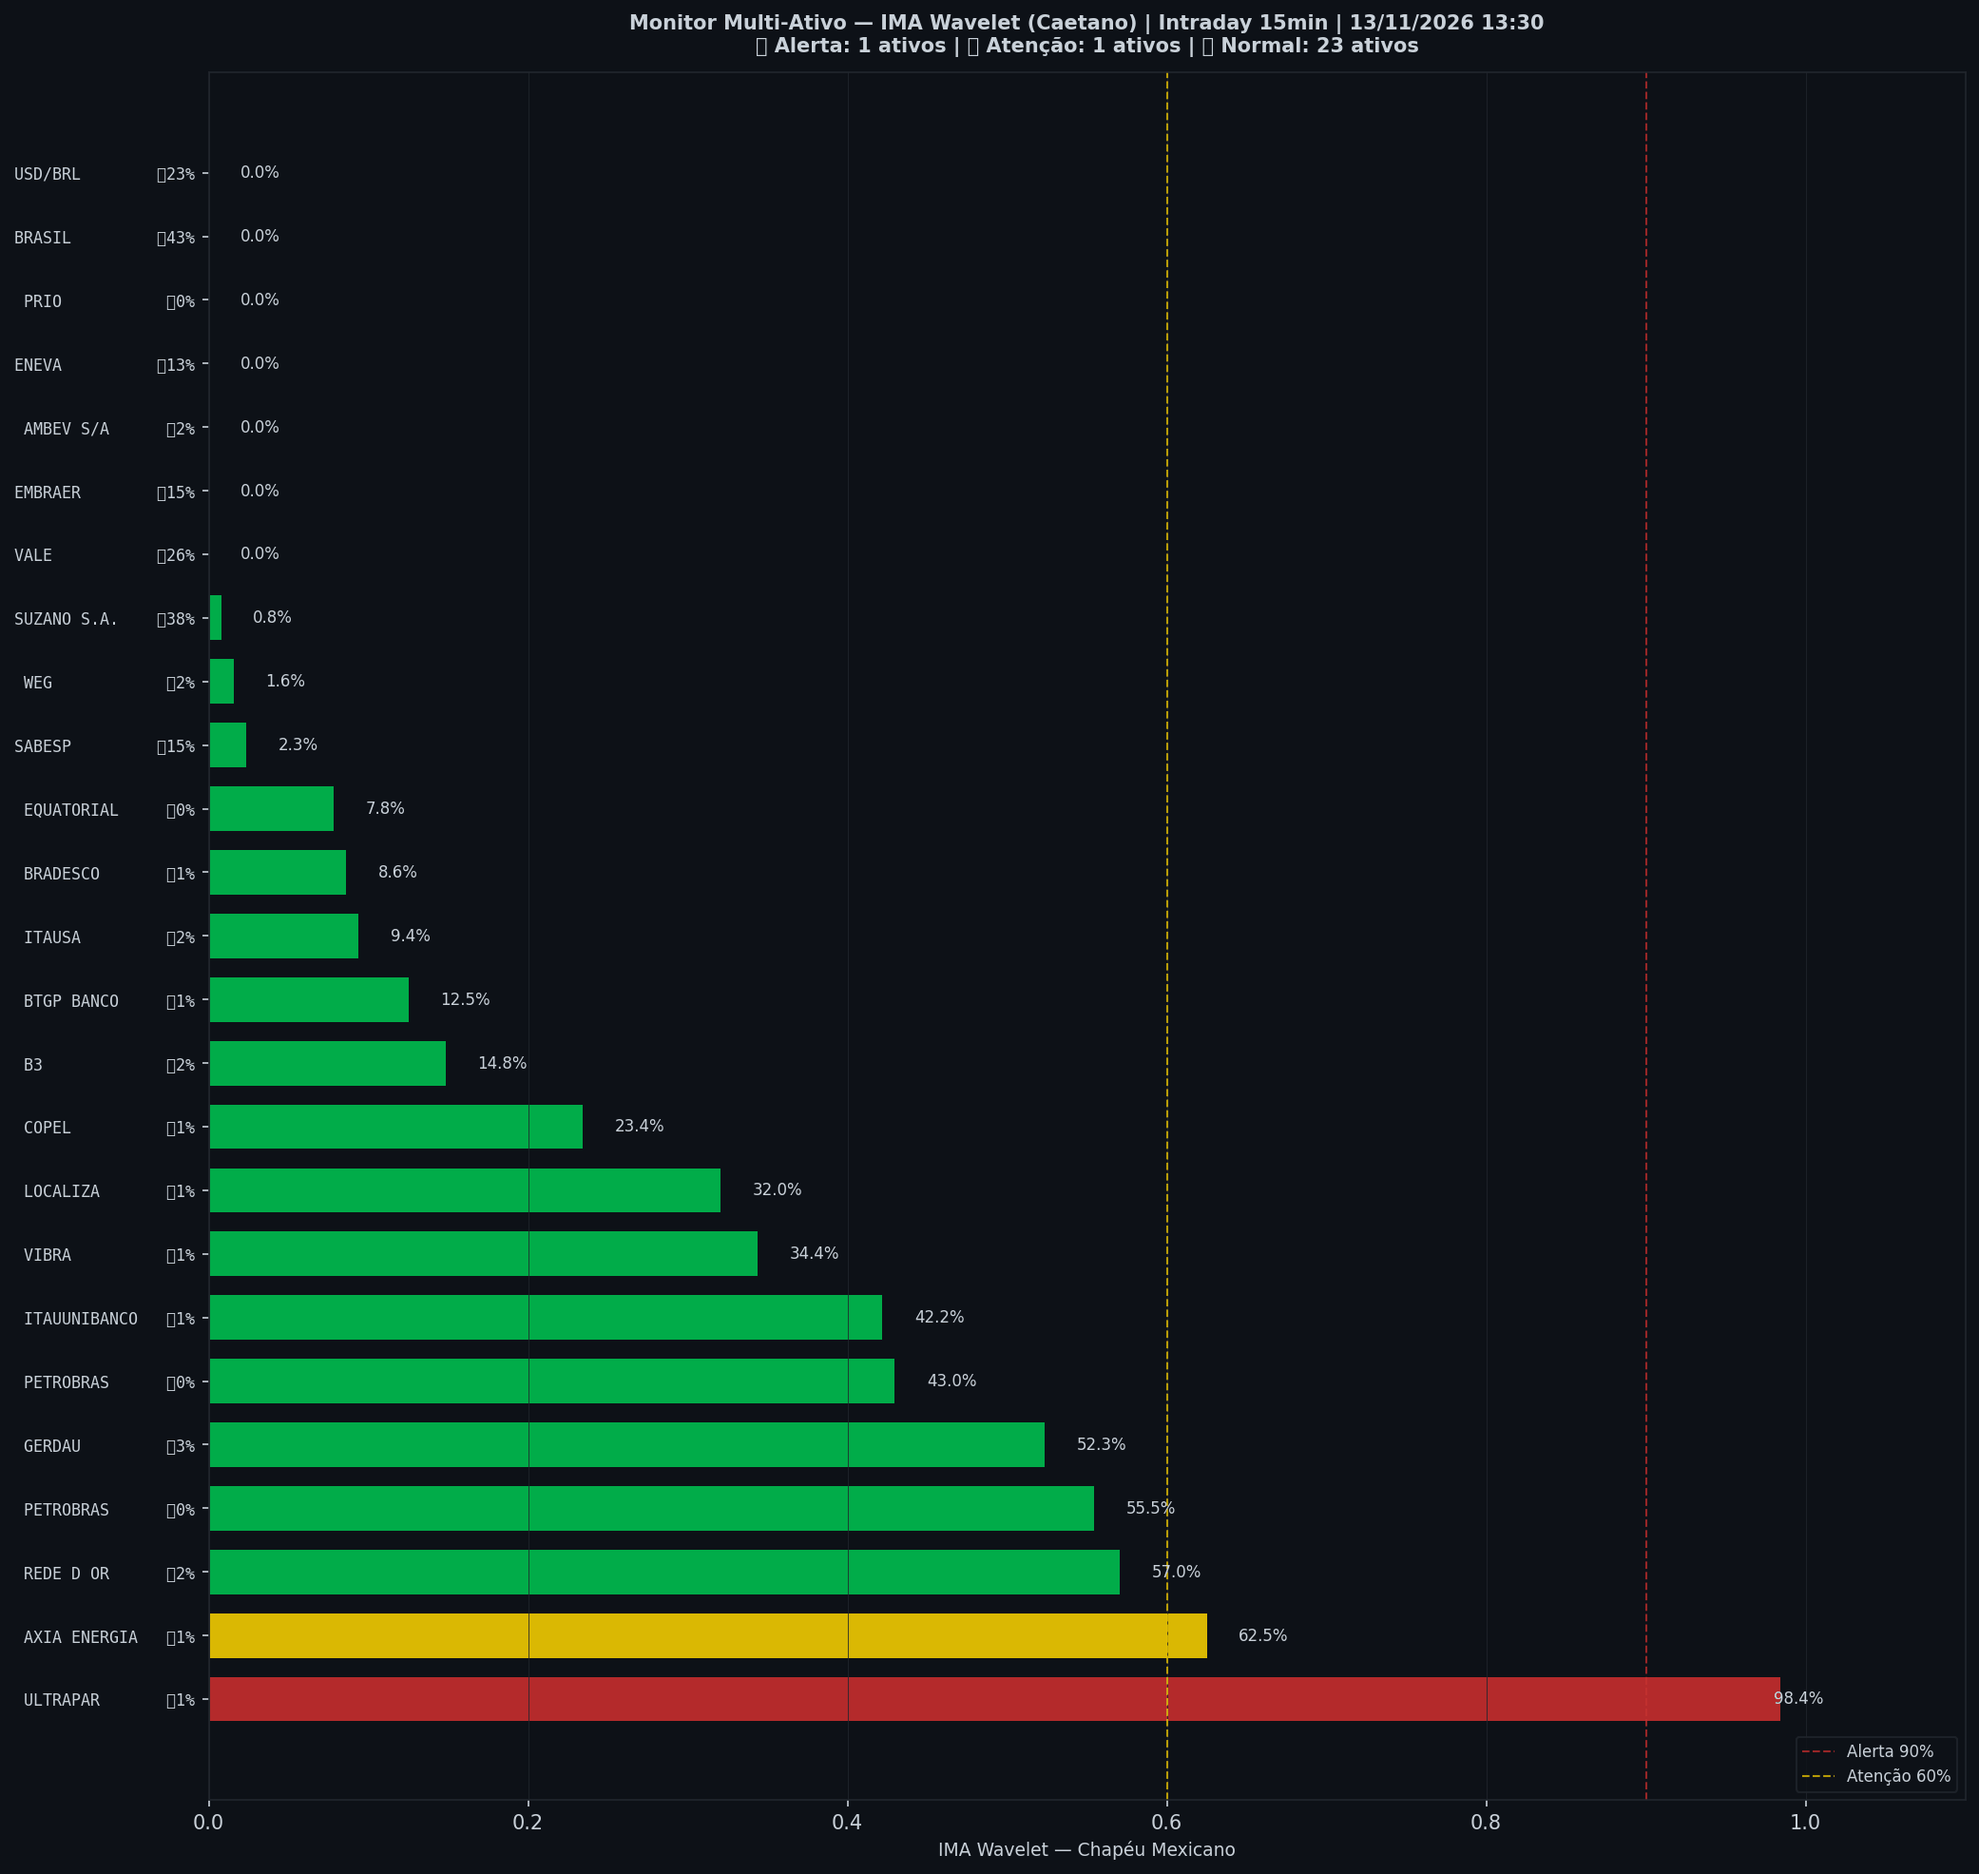
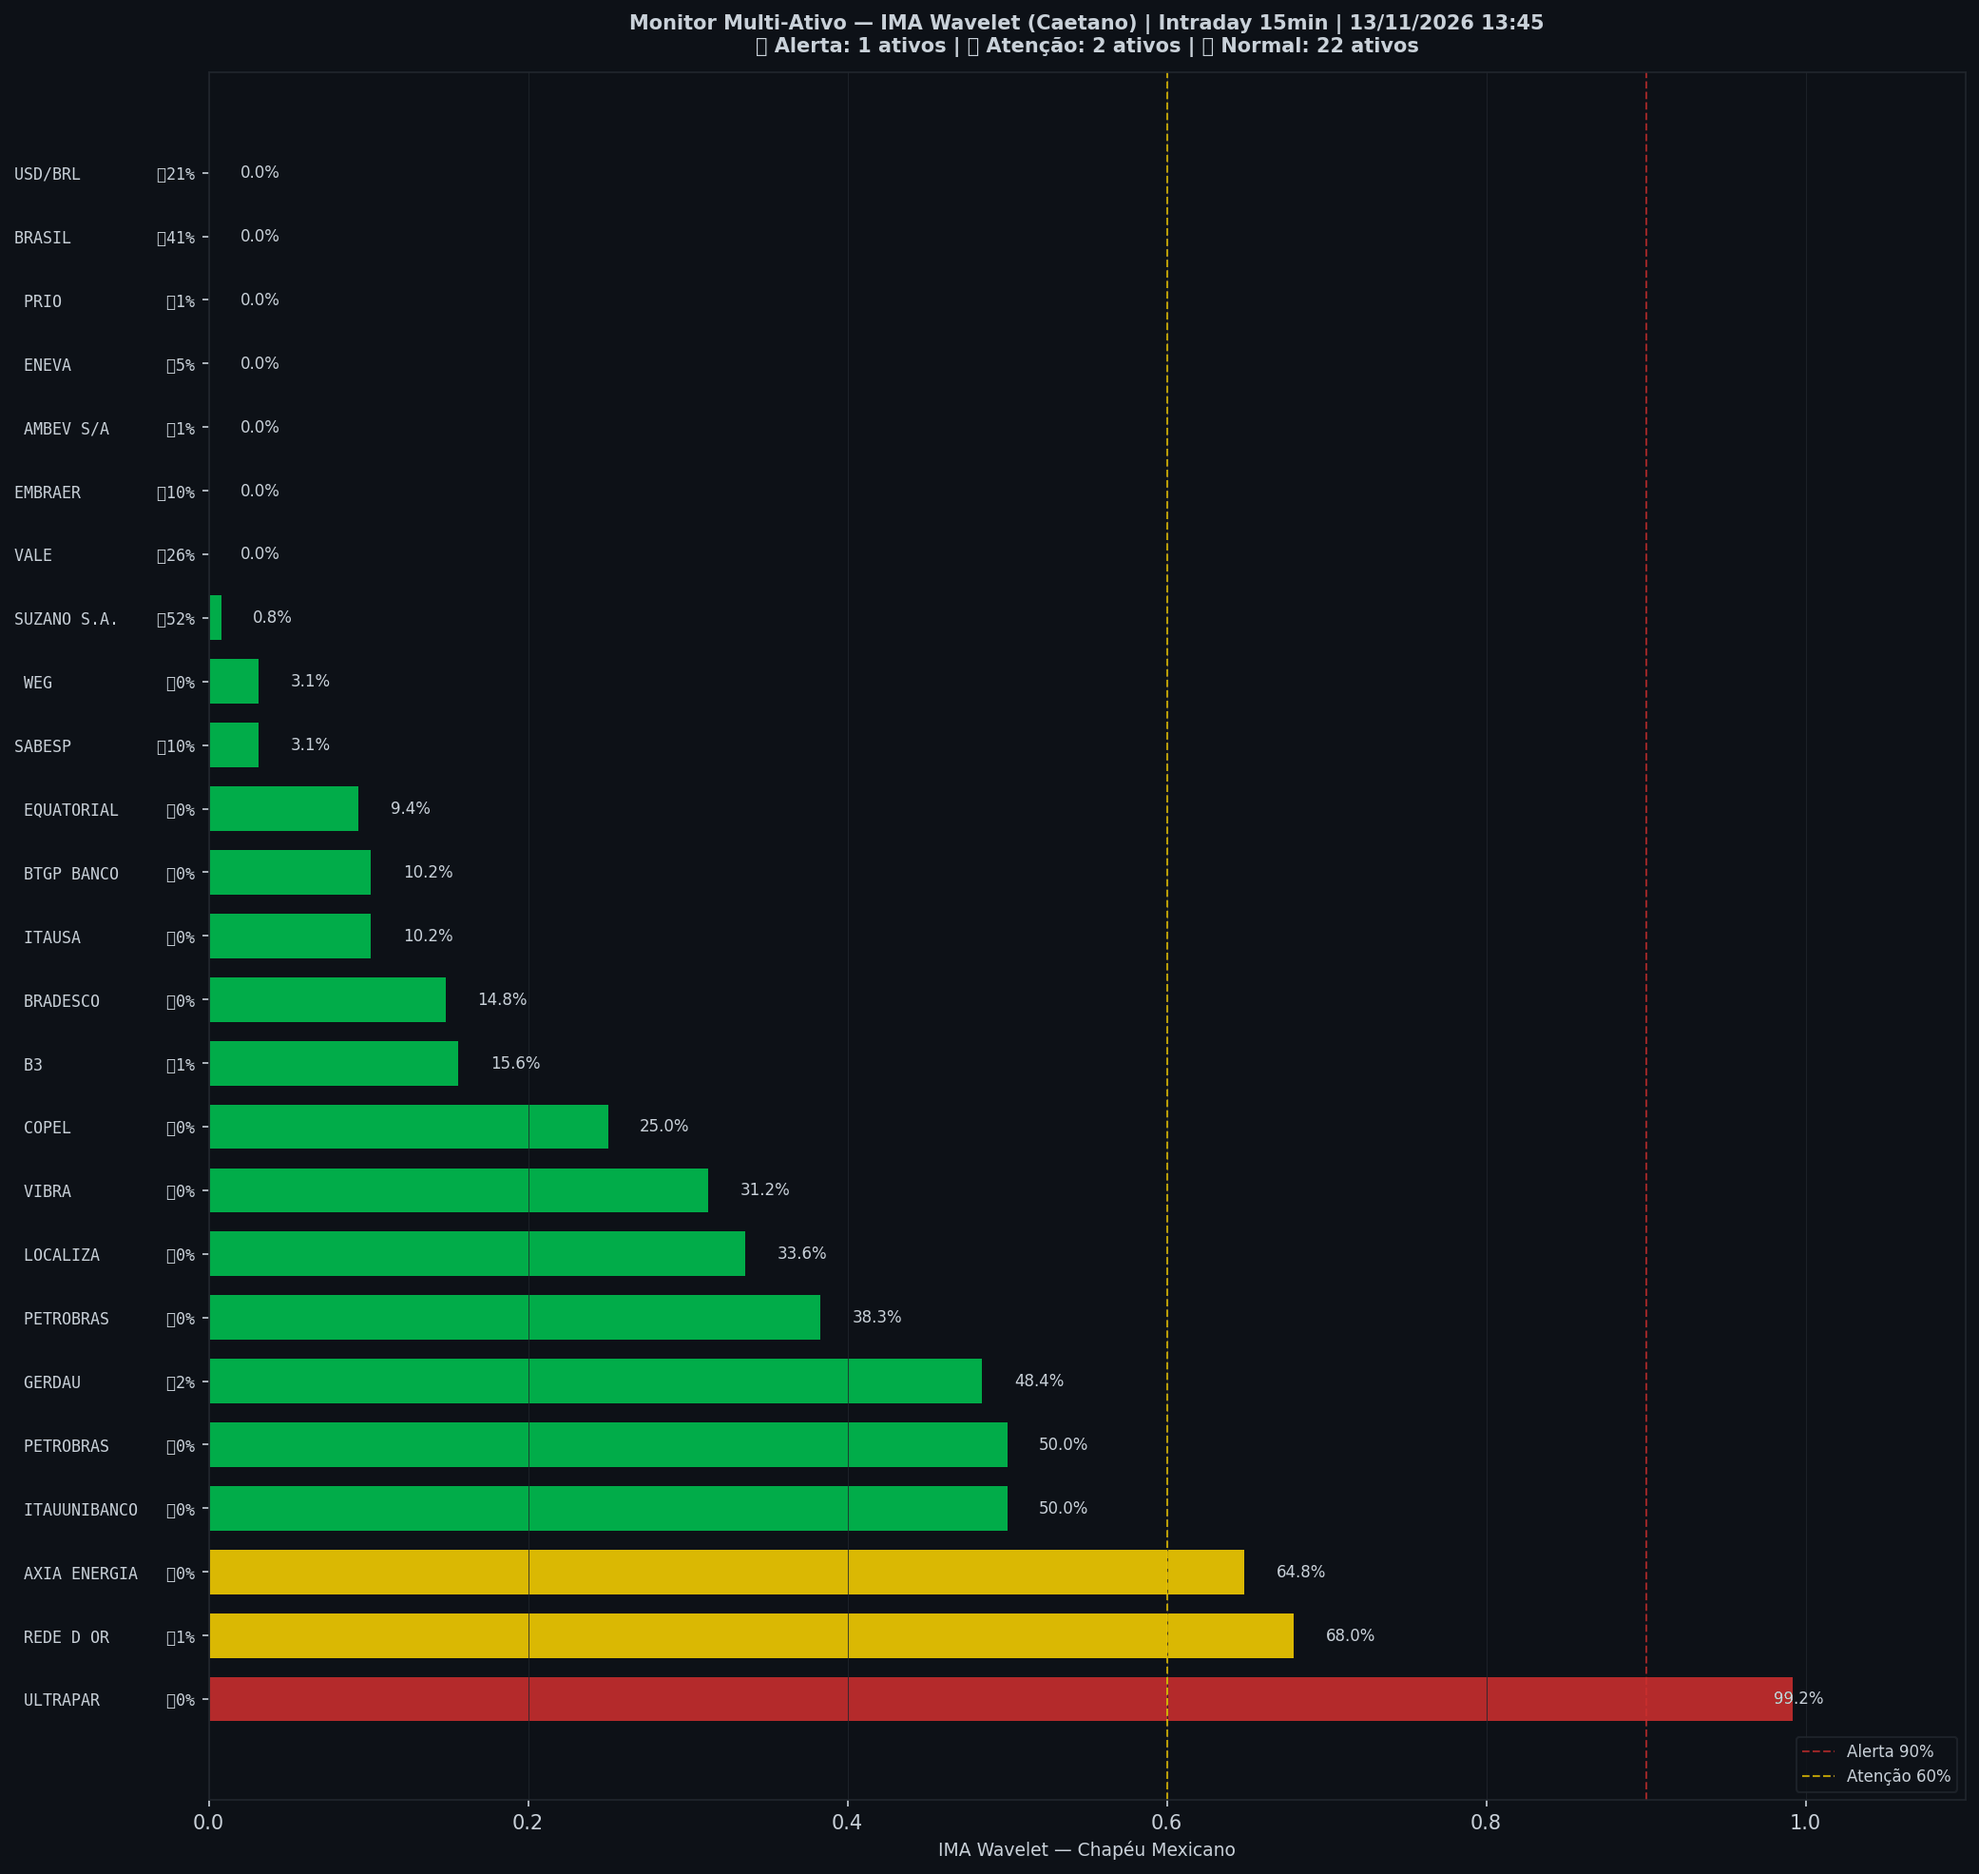
🤖 Auto: Sinal 13/11/2026 13:45

diff --git a/content/intraday/2026-11-13.md b/content/intraday/2026-11-13.md
@@ -1,10 +1,10 @@
 ---
-title: "🟢 Intraday 13/11/2026 13:15 BRT — VERDE"
+title: "🟢 Intraday 13/11/2026 13:30 BRT — VERDE"
 date: 2026-11-13
 tags: [intraday]
 ---
 
-> [!success] Onde o mercado está agora (13/11 13:15, candles de 15 min): **🟢 Calmo**
+> [!success] Onde o mercado está agora (13/11 13:30, candles de 15 min): **🟢 Calmo**
 > `Pânico ◀──────────●──────────▶ Euforia`
 >
 > O Ibovespa está dentro da sua faixa normal, sem excesso para cima nem para baixo.
@@ -20,7 +20,7 @@ tags: [intraday]
 > | 📍 **Sinais** | hoje: nenhum sinal | [abrir](sinais-topo-fundo/) |
 > | 🧪 **Placar ao vivo** | 1 operação(ões), 0 com lucro, soma -0,8% | [abrir](operacoes/) |
 
-> [!success] IMA Intraday · 15 min (13/11 13:15): 🟢 **VERDE** — Risco 1% · ▲ +1 p.p. vs leitura anterior
+> [!success] IMA Intraday · 15 min (13/11 13:30): 🟢 **VERDE** — Risco 1% · ＝ +0 p.p. vs leitura anterior
 > `░░░░░░░░░░░░░░░░░░░░`
 > Preço na faixa normal em torno da tendência.
 
@@ -32,13 +32,13 @@ tags: [intraday]
 >
 > *Leitura educacional baseada em 26 anos de dados, não recomendação. [Como usar](../metodologia/crise#3-como-usar-na-prática).*
 
-| Indicador — IMA Intraday · 15 min (13/11 13:15) | Valor |
+| Indicador — IMA Intraday · 15 min (13/11 13:30) | Valor |
 |---|---|
 | 🔴 ζ Topo — preço esticado acima da tendência | **1%** |
-| 🔵 ζ Fundo — preço esticado abaixo da tendência | 2% |
+| 🔵 ζ Fundo — preço esticado abaixo da tendência | 1% |
 | 🫧 LPPL bolha — alta super-exponencial (risco de crash) | 0% |
 | 🫧 LPPL antibolha — queda super-exponencial (risco de repique) | 0% |
-| 📊 Ibovespa | 172.481 pts |
+| 📊 Ibovespa | 172.338 pts |
 
 ![Gráfico do sinal](../graficos/sinal_intraday.png)
 
@@ -46,6 +46,7 @@ tags: [intraday]
 
 | Data | Zona | Evento | Risco | ζ Topo | ζ Fundo | LPPL |
 |---|---|---|---|---|---|---|
+| 2026-11-13 13:30 | 🟢 VERDE |  | **1%** | 1% | 1% | 0% |
 | 2026-11-13 13:15 | 🟢 VERDE |  | **1%** | 1% | 2% | 0% |
 | 2026-11-13 13:00 | 🟢 VERDE |  | **0%** | 0% | 3% | 0% |
 | 2026-11-13 12:45 | 🟢 VERDE |  | **1%** | 1% | 3% | 0% |
@@ -75,50 +76,49 @@ tags: [intraday]
 | 2026-11-12 15:00 | 🟢 VERDE |  | **0%** | 0% | 🔵 **88%** | 0% |
 | 2026-11-12 14:45 | 🟢 VERDE |  | **0%** | 0% | 🔵 **88%** | 0% |
 | 2026-11-12 14:30 | 🟢 VERDE |  | **0%** | 0% | 🔵 **85%** | 0% |
-| 2026-11-12 14:15 | 🟢 VERDE |  | **1%** | 1% | 🔵 **84%** | 0% |
 
 <small>Destaques: 🟡 ≥ 60% · 🔴 ≥ 90% (Risco e ζ Topo) · 🔵 ≥ 60% · 🔪 ≥ 90% (ζ Fundo) · 🫧 ≥ 30% · 🫧🔴 ≥ 50% (LPPL)</small>
 
 ## Monitor Multi-Ativo
 
-**8% dos ativos em tensão** (1🔴 3🟡) · **0 com ζ Fundo alto** — quanto mais ativos disparam juntos, mais confiável o sinal.
+**12% dos ativos em tensão** (1🔴 4🟡) · **0 com ζ Fundo alto** — quanto mais ativos disparam juntos, mais confiável o sinal.
 
 > [!danger] Em destaque no multi-ativo
-> 🔴 **ULTRAPAR** ζ Topo 98% · 🟡 **AXIA ENERGIA** ζ Topo 62%
+> 🔴 **ULTRAPAR** ζ Topo 99% · 🟡 **REDE D OR** ζ Topo 68% · 🟡 **AXIA ENERGIA** ζ Topo 65%
 
 | Zona | Ativo | Setor | ζ Topo | ζ Fundo |
 |---|---|---|---|---|
-| 🔴 | **ULTRAPAR** | Outros | 🔴 **98.4%** | 0.8% |
-| 🟡 | **AXIA ENERGIA** | Energia | 🟡 **62.5%** | 0.8% |
-| 🟢 | **REDE D OR** | Saúde | 57.0% | 1.6% |
-| 🟡 | **PETROBRAS** | Petróleo | 55.5% | 0.0% |
-| 🟡 | **GERDAU** | Siderurgia | 52.3% | 3.1% |
-| 🟢 | **PETROBRAS** | Petróleo | 43.0% | 0.0% |
-| 🟢 | **BRASIL** | Financeiro | 0.0% | 43.0% |
-| 🟢 | **ITAUUNIBANCO** | Financeiro | 42.2% | 0.8% |
-| 🟢 | **SUZANO S.A.** | Papel/Celulose | 0.8% | 37.5% |
-| 🟢 | **VIBRA** | Energia | 34.4% | 0.8% |
-| 🟢 | **LOCALIZA** | Aluguel | 32.0% | 0.8% |
+| 🔴 | **ULTRAPAR** | Outros | 🔴 **99.2%** | 0.0% |
+| 🟡 | **REDE D OR** | Saúde | 🟡 **68.0%** | 0.8% |
+| 🟡 | **AXIA ENERGIA** | Energia | 🟡 **64.8%** | 0.0% |
+| 🟢 | **SUZANO S.A.** | Papel/Celulose | 0.8% | 51.6% |
+| 🟢 | **ITAUUNIBANCO** | Financeiro | 50.0% | 0.0% |
+| 🟡 | **PETROBRAS** | Petróleo | 50.0% | 0.0% |
+| 🟡 | **GERDAU** | Siderurgia | 48.4% | 1.6% |
+| 🟢 | **BRASIL** | Financeiro | 0.0% | 40.6% |
+| 🟢 | **PETROBRAS** | Petróleo | 38.3% | 0.0% |
+| 🟢 | **LOCALIZA** | Aluguel | 33.6% | 0.0% |
+| 🟢 | **VIBRA** | Energia | 31.2% | 0.0% |
 | 🟢 | **VALE** | Mineração | 0.0% | 25.8% |
-| 🟢 | **COPEL** | Energia | 23.4% | 0.8% |
-| 🟢 | **USD/BRL** | Câmbio | 0.0% | 23.4% |
-| 🟢 | **SABESP** | Saneamento | 2.3% | 14.8% |
-| 🟢 | **EMBRAER** | Outros | 0.0% | 14.8% |
-| 🟢 | **B3** | Financeiro | 14.8% | 1.6% |
-| 🟢 | **ENEVA** | Energia | 0.0% | 13.3% |
-| 🟢 | **BTGP BANCO** | Financeiro | 12.5% | 0.8% |
-| 🟢 | **ITAUSA** | Financeiro | 9.4% | 1.6% |
-| 🟢 | **BRADESCO** | Financeiro | 8.6% | 0.8% |
-| 🟢 | **EQUATORIAL** | Energia | 7.8% | 0.0% |
-| 🟢 | **WEG** | Industrial | 1.6% | 1.6% |
-| 🟢 | **AMBEV S/A** | Consumo | 0.0% | 1.6% |
-| 🟢 | **PRIO** | Petróleo | 0.0% | 0.0% |
+| 🟢 | **COPEL** | Energia | 25.0% | 0.0% |
+| 🟢 | **USD/BRL** | Câmbio | 0.0% | 21.1% |
+| 🟢 | **B3** | Financeiro | 15.6% | 0.8% |
+| 🟢 | **BRADESCO** | Financeiro | 14.8% | 0.0% |
+| 🟢 | **SABESP** | Saneamento | 3.1% | 10.2% |
+| 🟢 | **ITAUSA** | Financeiro | 10.2% | 0.0% |
+| 🟢 | **EMBRAER** | Outros | 0.0% | 10.2% |
+| 🟢 | **BTGP BANCO** | Financeiro | 10.2% | 0.0% |
+| 🟢 | **EQUATORIAL** | Energia | 9.4% | 0.0% |
+| 🟢 | **ENEVA** | Energia | 0.0% | 5.5% |
+| 🟢 | **WEG** | Industrial | 3.1% | 0.0% |
+| 🟢 | **AMBEV S/A** | Consumo | 0.0% | 0.8% |
+| 🟢 | **PRIO** | Petróleo | 0.0% | 0.8% |
 
 <small>Destaques: 🟡 ≥ 60% · 🔴 ≥ 90% (Risco e ζ Topo) · 🔵 ≥ 60% · 🔪 ≥ 90% (ζ Fundo) · 🫧 ≥ 30% · 🫧🔴 ≥ 50% (LPPL)</small>
 
 ![Monitor multi-ativo](../graficos/multi_intraday.png)
 
-*Página atualizada em 13/11/2026 13:30 BRT (leitura da barra de 2026-11-13 13:15 BRT).*
+*Página atualizada em 13/11/2026 13:45 BRT (leitura da barra de 2026-11-13 13:30 BRT).*
 
 > [!warning] O que este indicador não faz
 > Medido em 5 anos de Ibovespa, o ζ **não antecipa** topos nem fundos: a capacidade de separar o que sobe do que cai ficou em 0,49–0,52, e 0,50 é moeda jogada ao ar. Ele descreve o estado de agora; não é aviso do que vem. As zonas verde/amarelo/vermelho continuam na página como descrição desse estado — **não as use como sinal de entrada ou saída**.

diff --git a/content/index.md b/content/index.md
@@ -6,9 +6,9 @@ tags: [home]
 
 **As ondas do mercado, explicadas.** Leitura do Ibovespa com estatística de 26 anos, baseada no trabalho de pesquisadores e traders reconhecidos e adaptada por Jarbas Daniel da Costa.
 
-*Última atualização: 13/11/2026 13:30 BRT · Intraday 15min*
+*Última atualização: 13/11/2026 13:45 BRT · Intraday 15min*
 
-> [!success] Onde o mercado está agora (13/11 13:15, candles de 15 min): **🟢 Calmo**
+> [!success] Onde o mercado está agora (13/11 13:30, candles de 15 min): **🟢 Calmo**
 > `Pânico ◀──────────●──────────▶ Euforia`
 >
 > O Ibovespa está dentro da sua faixa normal, sem excesso para cima nem para baixo.
@@ -44,26 +44,26 @@ tags: [home]
 > *Leitura educacional baseada em 26 anos de dados, não recomendação. [Como usar](metodologia/crise#3-como-usar-na-prática).*
 
 > [!info]- 🌊 Detalhes do Sinal IMA (indicadores e últimos 7 pregões)
-> > [!success] IMA Intraday · 15 min (13/11 13:15): 🟢 **VERDE** — Risco 1% · ▲ +1 p.p. vs leitura anterior
+> > [!success] IMA Intraday · 15 min (13/11 13:30): 🟢 **VERDE** — Risco 1% · ＝ +0 p.p. vs leitura anterior
 > > `░░░░░░░░░░░░░░░░░░░░`
 > > Preço na faixa normal em torno da tendência.
 >
 >
-> | Indicador — IMA Intraday · 15 min (13/11 13:15) | Valor |
+> | Indicador — IMA Intraday · 15 min (13/11 13:30) | Valor |
 > |---|---|
 > | 🔴 ζ Topo — preço esticado acima da tendência | **1%** |
-> | 🔵 ζ Fundo — preço esticado abaixo da tendência | 2% |
+> | 🔵 ζ Fundo — preço esticado abaixo da tendência | 1% |
 > | 🫧 LPPL bolha — alta super-exponencial (risco de crash) | 0% |
 > | 🫧 LPPL antibolha — queda super-exponencial (risco de repique) | 0% |
-> | 📊 Ibovespa | 172.481 pts |
+> | 📊 Ibovespa | 172.338 pts |
 >
-> **Multi-ativo:** 8% em tensão (1🔴 3🟡 de 25 ativos)
+> **Multi-ativo:** 12% em tensão (1🔴 4🟡 de 25 ativos)
 >
 > **Últimos 7 pregões**
 >
 > | Data | Zona | Risco | ζ Topo | ζ Fundo | LPPL |
 > |---|---|---|---|---|---|
-> | [13/11/2026](intraday/2026-11-13) | 🟢 VERDE | **1%** | 1% | 2% | 0% |
+> | [13/11/2026](intraday/2026-11-13) | 🟢 VERDE | **1%** | 1% | 1% | 0% |
 > | [12/11/2026](intraday/2026-11-12) | 🟢 VERDE | **0%** | 0% | 🔵 **80%** | 0% |
 >
 > <small>Destaques: 🟡 ≥ 60% · 🔴 ≥ 90% (Risco e ζ Topo) · 🔵 ≥ 60% · 🔪 ≥ 90% (ζ Fundo) · 🫧 ≥ 30% · 🫧🔴 ≥ 50% (LPPL)</small>

diff --git a/content/historico.md b/content/historico.md
@@ -5,7 +5,7 @@ tags: [historico]
 
 # 📜 Histórico de leituras (v5)
 
-**2.360 leituras** desde 2026-07-03. Na página ficam os últimos 3 dias leitura por leitura e o resumo de cada dia anterior; o registro inteiro está no arquivo para baixar.
+**2.361 leituras** desde 2026-07-03. Na página ficam os últimos 3 dias leitura por leitura e o resumo de cada dia anterior; o registro inteiro está no arquivo para baixar.
 
 [**Baixar o histórico completo**](historico-completo.csv) (103 KB · abre no Excel e no LibreOffice)
 
@@ -16,6 +16,7 @@ tags: [historico]
 
 | Data | Modo | Zona | Risco | IMA | LPPL |
 |---|---|---|---|---|---|
+| 2026-11-13 13:30 | intraday | 🟢 VERDE | 1% | 1% | 0% |
 | 2026-11-13 13:15 | intraday | 🟢 VERDE | 1% | 1% | 0% |
 | 2026-11-13 13:00 | intraday | 🟢 VERDE | 0% | 0% | 0% |
 | 2026-11-13 12:45 | intraday | 🟢 VERDE | 1% | 1% | 0% |

diff --git a/content/operacoes/ranking.md b/content/operacoes/ranking.md
@@ -5,7 +5,7 @@ tags: [operacoes]
 description: "As regras de compra do site ordenadas pelo resultado, com treino, teste e placar ao vivo"
 ---
 
-*Atualizado 13/11/2026 13:30 · histórico simulado com as regras congeladas em 23/10/2026 + placar ao vivo.*
+*Atualizado 13/11/2026 13:45 · histórico simulado com as regras congeladas em 23/10/2026 + placar ao vivo.*
 
 As regras de compra do site, **da que mais rendeu para a que menos rendeu**. O resultado é por operação, no índice à vista, sem custos e sem juros compostos (a soma é só a soma das operações). **Treino** = entradas de 2001 a 2013 e **teste** = 2014 em diante: uma regra só é confiável se ganhou nos dois. O único resultado sem nenhum ajuste ao histórico é o **placar ao vivo**.
 

diff --git a/content/linha-do-tempo/index.md b/content/linha-do-tempo/index.md
@@ -5,7 +5,7 @@ description: "Todo sinal, ordem, stop e aviso do Pêndulo de Mercado, do mais re
 tags: [eventos]
 ---
 
-*Atualizada 13/11/2026 13:30 BRT · a cada 15 min no pregão e às 19h.*
+*Atualizada 13/11/2026 13:45 BRT · a cada 15 min no pregão e às 19h.*
 
 Tudo o que o sistema fez ou detectou, **do mais recente para o mais antigo**: sinais de topo e fundo, ordens de compra e de venda armadas, compras, vendas, stops, avisos de 🚨 preço perto do nível e mudanças do Sinal IMA. Os **últimos 7 dias** ficam abertos; o resto, por **ano → mês → dia**.
 
